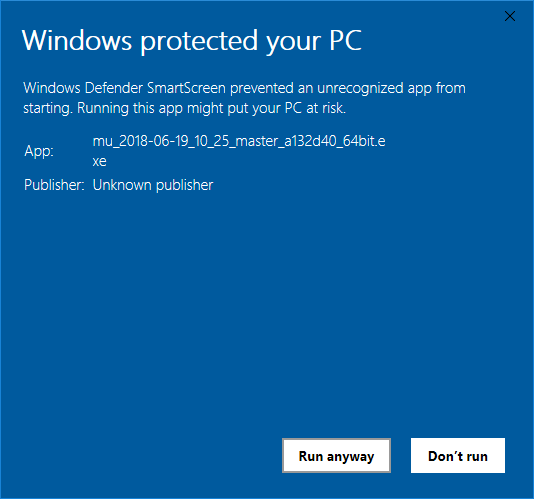
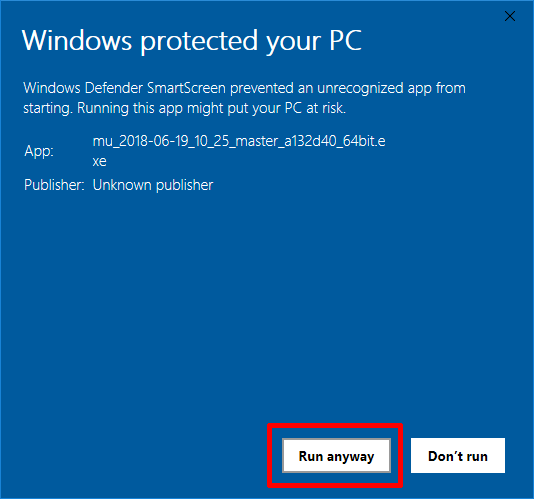
Add info about Windows defender.

Changed region(s): [[0.4794, 0.8417, 0.779, 0.992]]

diff --git a/en/howto/use_portamu.md b/en/howto/use_portamu.md
@@ -69,6 +69,28 @@ extracted Mu and double click on the `Launch Mu.bat` file to start. **It may
 take some time for Mu to launch** because of the relative slowness of
 pendrives.
 
+Sometimes, depending upon the machine you're using, Windows may say that it is
+protecting your PC from an unrecognised application.
+
+<div class="row">
+  <img src="/img/en/howto/beta/win10.2.png" alt="Windows protector" class="img-responsive center-block img-rounded movie"/>
+  <br/>
+</div>
+
+The solution is to click on the "More info" link:
+
+<div class="row">
+  <img src="/img/en/howto/beta/win10.2_annotated.png" alt="Windows protector" class="img-responsive center-block img-rounded movie"/>
+  <br/>
+</div>
+
+Then click on the "Run anyway" button.
+
+<div class="row">
+  <img src="/img/en/howto/beta/win10.3.png" alt="Windows protector" class="img-responsive center-block img-rounded movie"/>
+  <br/>
+</div>
+
 ## Mac OSX
 
 You simply need to [download](/en/download) the existing OSX installer, copy it
